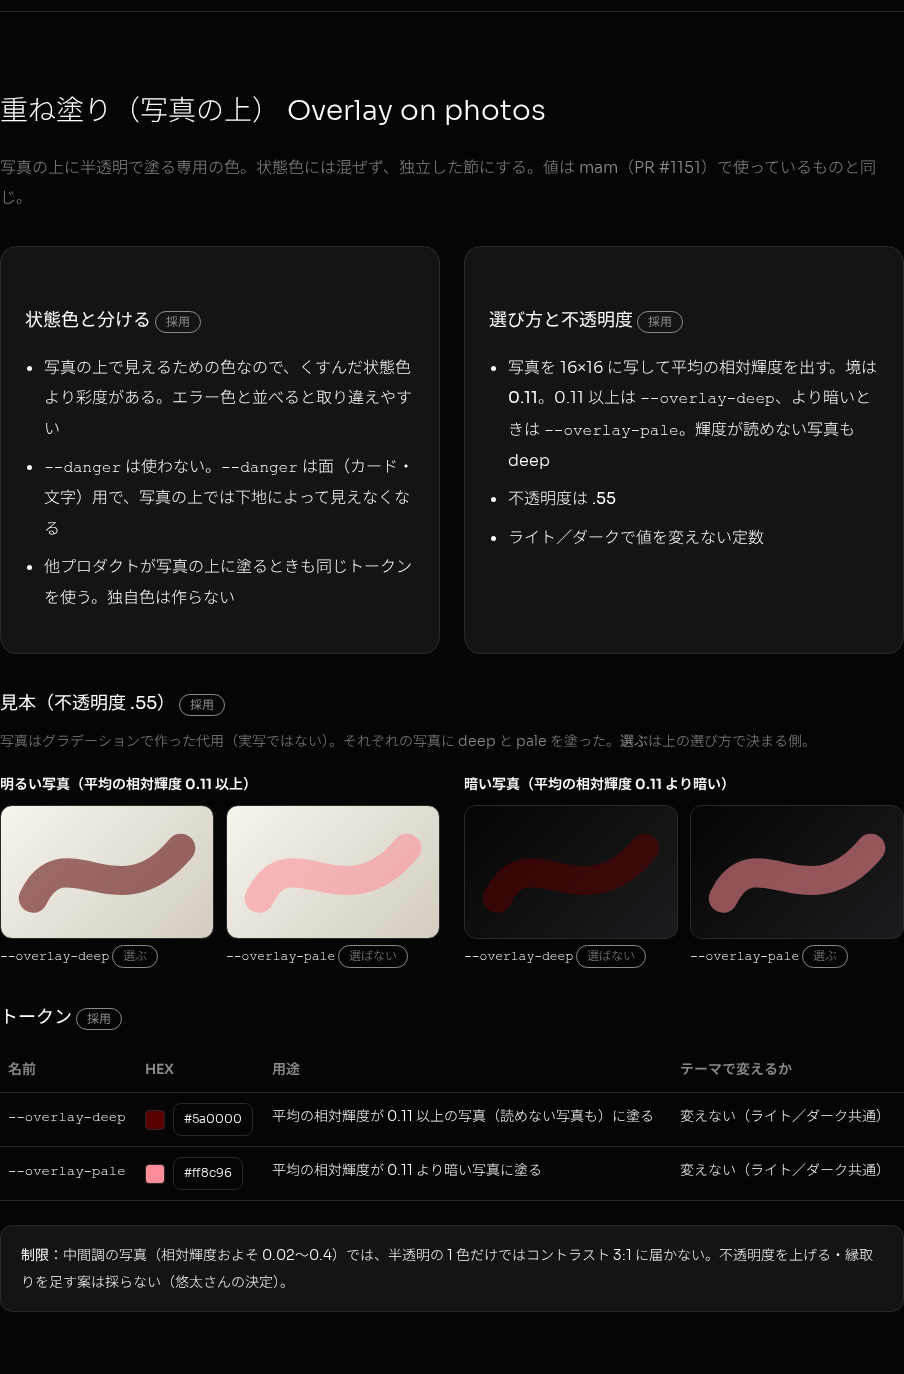
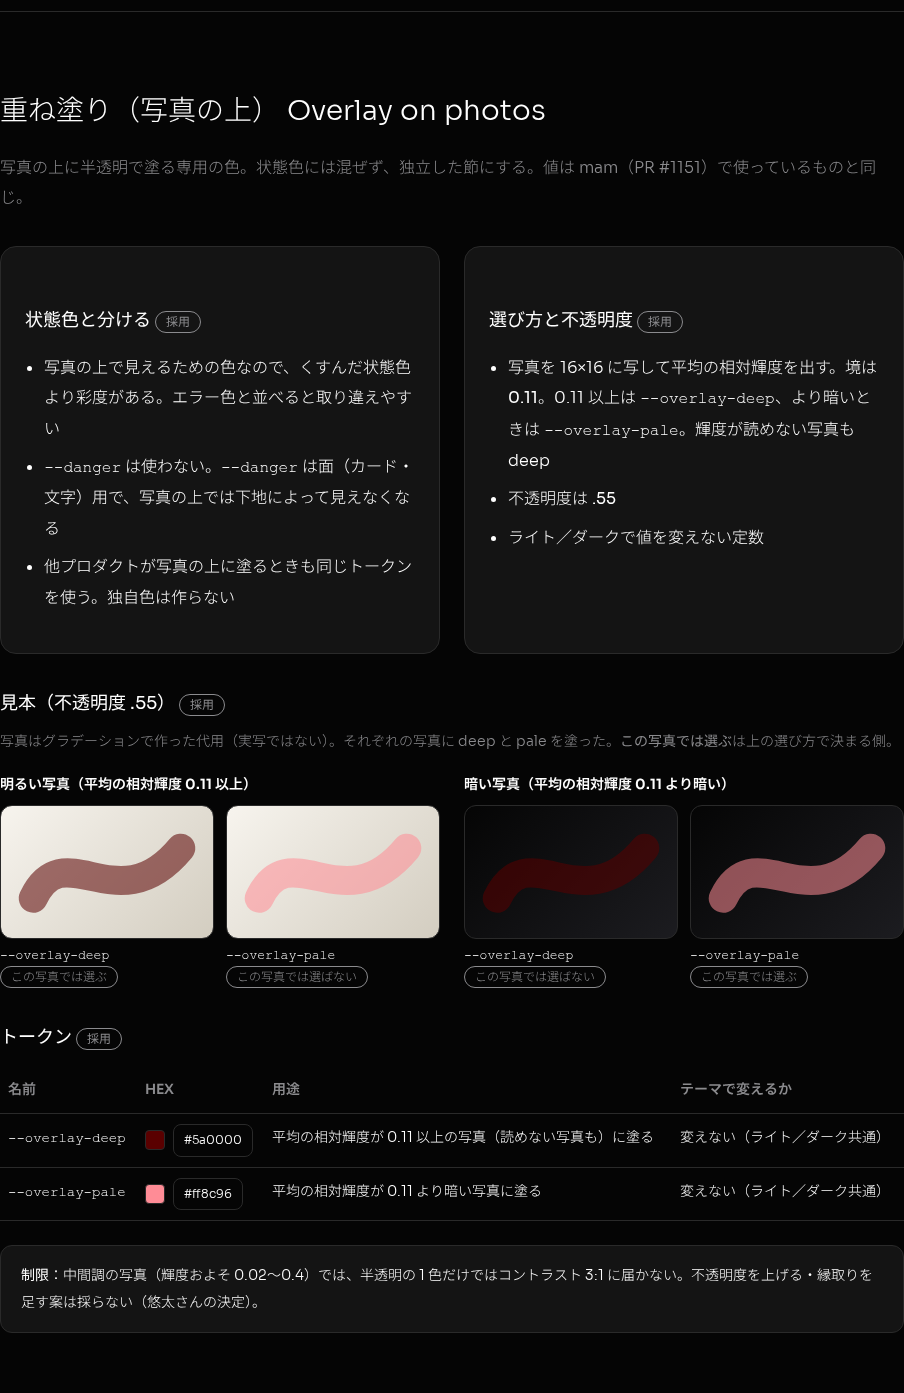
fix: 重ね塗りの見本ラベル・forced-colors・検査を review 指摘で直す（Refs #18）

diff --git a/index.html b/index.html
@@ -56,12 +56,13 @@ pre.code{margin:12px 0 0;padding:16px;background:var(--surface);border:1px solid
 .jump{font-size:14px;color:var(--mute)}.jump a{color:var(--ink);margin-right:12px}
 .h14t{width:100%}.h14t .tag{white-space:nowrap;margin-right:0}.h14t.src td:last-child{color:var(--mute)}@media(max-width:640px){.h14t thead{display:none}.h14t tr{display:block;padding:10px 0;border-bottom:1px solid var(--border)}.h14t td{display:block;padding:0;border:0}.h14t td:first-child{font-weight:600}.h14t.src td:last-child{font-size:12px}}
 /* 重ね塗り（写真の上）の見本（Issue #18）。写真は CSS のグラデーションで代用。塗りは不透明度 .55 */
-.ov-g{display:grid;grid-template-columns:repeat(auto-fit,minmax(280px,1fr));gap:24px;margin-top:16px}.ov-g h4{margin:0 0 8px;font-size:14px;font-weight:600}
+.ov-g{display:grid;grid-template-columns:repeat(auto-fit,minmax(min(280px,100%),1fr));gap:24px;margin-top:16px}.ov-g h4{margin:0 0 8px;font-size:14px;font-weight:600}.ov-note{font-size:14px;margin:0}
 .ov-r{display:grid;grid-template-columns:1fr 1fr;gap:12px}.ov-r figure{margin:0;min-width:0}
 .ov-ph{aspect-ratio:8/5;border:1px solid var(--border);border-radius:12px;overflow:hidden}.ov-bright{background:linear-gradient(135deg,#f7f4ee,#d3cdc0)}.ov-dark{background:linear-gradient(135deg,#050505,#1c1c20)}
 .ov-ph svg{display:block;width:100%;height:100%}.ov-ph path{fill:none;stroke-width:22;stroke-linecap:round;opacity:.55}
 .ov-r figcaption{margin-top:6px;font-size:13px;line-height:1.5}.ov-r .tag{margin-right:0}
 .ov-sw{display:inline-block;width:20px;height:20px;border-radius:4px;border:1px solid var(--border);vertical-align:middle;margin-right:8px}.ov-t .hex{display:inline-flex;margin-top:0;vertical-align:middle}
+@media(forced-colors:active){.ov-ph,.ov-sw{forced-color-adjust:none}}
 </style></head><body><div class="wrap">
 <div class="top"><span class="logo">OUSIASS<span class="badge">色・フォント・サイズ・UI確定</span></span><div class="seg" role="group" aria-label="テーマ" data-theme-control><button type="button" data-set-theme="light" aria-pressed="false"><svg viewBox="0 0 24 24" aria-hidden="true"><path d="M12 18C15.3137 18 18 15.3137 18 12C18 8.68629 15.3137 6 12 6C8.68629 6 6 8.68629 6 12C6 15.3137 8.68629 18 12 18Z"/><path d="M22 12L23 12M12 2V1M12 23V22M20 20L19 19M20 4L19 5M4 20L5 19M4 4L5 5M1 12L2 12"/></svg><span class="lb">ライト</span></button><button type="button" data-set-theme="dark" aria-pressed="false"><svg viewBox="0 0 24 24" aria-hidden="true"><path d="M3 11.5066C3 16.7497 7.25034 21 12.4934 21C16.2209 21 19.4466 18.8518 21 15.7259C12.4934 15.7259 8.27411 11.5066 8.27411 3C5.14821 4.55344 3 7.77915 3 11.5066Z"/></svg><span class="lb">ダーク</span></button><button type="button" data-set-theme="system" aria-pressed="false"><svg viewBox="0 0 24 24" aria-hidden="true"><path d="M2 21L17 21M21 21L22 21"/><path d="M2 16.4V3.6C2 3.26863 2.26863 3 2.6 3H21.4C21.7314 3 22 3.26863 22 3.6V16.4C22 16.7314 21.7314 17 21.4 17H2.6C2.26863 17 2 16.7314 2 16.4Z"/></svg><span class="lb">システム</span></button></div></div>
 <header><h1>UI カラーガイド</h1><p class="lead">Ousiass 全プロダクト共通のカラー・タイポ・サイズ・UI ガイド（確定）。HEX はクリックでコピーできます。</p><p class="lead" style="font-size:14px">スイッチ・ラジオの状態は推奨案（未確定）。ボタンの loading・スピナー・リップルの対象・テーマ切替（3 モード）・フォーカスの実線リング・<code>--z-popup</code> 401・Dark のモーダル影 40%・accent-soft 上の文字（<code>--ink</code> / <code>--mute-on-soft</code>）・ダイアログ本文 base 16・モーダルの閉じ方・ペイン型デスクトップアプリの例外・スイッチのラベル base 16・入力の文字サイズ（base 16 が基本、狭い設定ペインだけ sm 14 可、モバイルは必ず 16）・使えないメニュー項目の opacity <code>.4</code>・全幅バナーの即時の出入りは採用済み。<a href="#dialog">ダイアログ</a> ／ <a href="#pane-app">ペイン型アプリの例外</a> ／ <a href="#proposals">Hitomado 提案の反映（#283〜#287）</a></p></header>
@@ -95,17 +96,17 @@ pre.code{margin:12px 0 0;padding:16px;background:var(--surface);border:1px solid
 <li>他プロダクトが写真の上に塗るときも同じトークンを使う。独自色は作らない</li></ul></div>
 <div><h3>選び方と不透明度 <span class="tag">採用</span></h3><ul class="p"><li>写真を 16×16 に写して平均の相対輝度を出す。境は <strong>0.11</strong>。0.11 以上は <code>--overlay-deep</code>、より暗いときは <code>--overlay-pale</code>。輝度が読めない写真も deep</li>
 <li>不透明度は <strong>.55</strong></li><li>ライト／ダークで値を変えない定数</li></ul></div></div>
-<h3>見本（不透明度 .55） <span class="tag">採用</span></h3><p class="sub" style="font-size:14px;margin:0">写真はグラデーションで作った代用（実写ではない）。それぞれの写真に deep と pale を塗った。<strong>選ぶ</strong>は上の選び方で決まる側。</p>
+<h3>見本（不透明度 .55） <span class="tag">採用</span></h3><p class="sub ov-note">写真はグラデーションで作った代用（実写ではない）。それぞれの写真に deep と pale を塗った。<strong>この写真では選ぶ</strong>は上の選び方で決まる側。</p>
 <div class="ov-g"><div><h4>明るい写真（平均の相対輝度 0.11 以上）</h4><div class="ov-r">
-<figure><div class="ov-ph ov-bright" role="img" aria-label="明るい写真の見本に --overlay-deep を不透明度 .55 で塗ったところ"><svg viewBox="0 0 160 100" aria-hidden="true" focusable="false"><path d="M24 70C48 20 88 90 136 32" style="stroke:var(--overlay-deep)"/></svg></div><figcaption><code>--overlay-deep</code> <span class="tag">選ぶ</span></figcaption></figure>
-<figure><div class="ov-ph ov-bright" role="img" aria-label="明るい写真の見本に --overlay-pale を不透明度 .55 で塗ったところ"><svg viewBox="0 0 160 100" aria-hidden="true" focusable="false"><path d="M24 70C48 20 88 90 136 32" style="stroke:var(--overlay-pale)"/></svg></div><figcaption><code>--overlay-pale</code> <span class="tag">選ばない</span></figcaption></figure></div></div>
+<figure><div class="ov-ph ov-bright" role="img" aria-label="明るい写真の見本に --overlay-deep を不透明度 .55 で塗ったところ"><svg viewBox="0 0 160 100" aria-hidden="true" focusable="false"><path d="M24 70C48 20 88 90 136 32" style="stroke:var(--overlay-deep)"/></svg></div><figcaption><code>--overlay-deep</code> <span class="tag">この写真では選ぶ</span></figcaption></figure>
+<figure><div class="ov-ph ov-bright" role="img" aria-label="明るい写真の見本に --overlay-pale を不透明度 .55 で塗ったところ"><svg viewBox="0 0 160 100" aria-hidden="true" focusable="false"><path d="M24 70C48 20 88 90 136 32" style="stroke:var(--overlay-pale)"/></svg></div><figcaption><code>--overlay-pale</code> <span class="tag">この写真では選ばない</span></figcaption></figure></div></div>
 <div><h4>暗い写真（平均の相対輝度 0.11 より暗い）</h4><div class="ov-r">
-<figure><div class="ov-ph ov-dark" role="img" aria-label="暗い写真の見本に --overlay-deep を不透明度 .55 で塗ったところ"><svg viewBox="0 0 160 100" aria-hidden="true" focusable="false"><path d="M24 70C48 20 88 90 136 32" style="stroke:var(--overlay-deep)"/></svg></div><figcaption><code>--overlay-deep</code> <span class="tag">選ばない</span></figcaption></figure>
-<figure><div class="ov-ph ov-dark" role="img" aria-label="暗い写真の見本に --overlay-pale を不透明度 .55 で塗ったところ"><svg viewBox="0 0 160 100" aria-hidden="true" focusable="false"><path d="M24 70C48 20 88 90 136 32" style="stroke:var(--overlay-pale)"/></svg></div><figcaption><code>--overlay-pale</code> <span class="tag">選ぶ</span></figcaption></figure></div></div></div>
+<figure><div class="ov-ph ov-dark" role="img" aria-label="暗い写真の見本に --overlay-deep を不透明度 .55 で塗ったところ"><svg viewBox="0 0 160 100" aria-hidden="true" focusable="false"><path d="M24 70C48 20 88 90 136 32" style="stroke:var(--overlay-deep)"/></svg></div><figcaption><code>--overlay-deep</code> <span class="tag">この写真では選ばない</span></figcaption></figure>
+<figure><div class="ov-ph ov-dark" role="img" aria-label="暗い写真の見本に --overlay-pale を不透明度 .55 で塗ったところ"><svg viewBox="0 0 160 100" aria-hidden="true" focusable="false"><path d="M24 70C48 20 88 90 136 32" style="stroke:var(--overlay-pale)"/></svg></div><figcaption><code>--overlay-pale</code> <span class="tag">この写真では選ぶ</span></figcaption></figure></div></div></div>
 <h3>トークン <span class="tag">採用</span></h3><table class="ut h14t ov-t"><thead><tr><th>名前</th><th>HEX</th><th>用途</th><th>テーマで変えるか</th></tr></thead><tbody>
 <tr><td><code>--overlay-deep</code></td><td><span class="ov-sw" style="background:#5a0000"></span><span class="hex"><button data-hex="#5a0000">#5a0000</button></span></td><td>平均の相対輝度が 0.11 以上の写真（読めない写真も）に塗る</td><td>変えない（ライト／ダーク共通）</td></tr>
 <tr><td><code>--overlay-pale</code></td><td><span class="ov-sw" style="background:#ff8c96"></span><span class="hex"><button data-hex="#ff8c96">#ff8c96</button></span></td><td>平均の相対輝度が 0.11 より暗い写真に塗る</td><td>変えない（ライト／ダーク共通）</td></tr></tbody></table>
-<div class="warn" id="overlay-limit"><strong>制限</strong>：中間調の写真（相対輝度およそ 0.02〜0.4）では、半透明の 1 色だけではコントラスト 3:1 に届かない。不透明度を上げる・縁取りを足す案は採らない（悠太さんの決定）。</div></section>
+<div class="warn" id="overlay-limit"><strong>制限</strong>：中間調の写真（輝度およそ 0.02〜0.4）では、半透明の 1 色だけではコントラスト 3:1 に届かない。不透明度を上げる・縁取りを足す案は採らない（悠太さんの決定）。</div></section>
 <section><h2>Do / Don't</h2><div class="dd"><div><h3>Do</h3><ul class="p"><li>背景は bone（ダークはほぼ黒 #050505）、カード／ペインは surface（#141414）、区切りは border。真っ黒 #000 は使わない</li><li>主操作は accent（インク色）で示す</li><li>プリズムはロゴとキービジュアルだけに</li><li>状態はアイコン＋文言＋くすんだ状態色で伝える</li><li>ライト / ダーク両方で確認する</li></ul></div><div><h3>Don't</h3><ul class="p"><li>ボタン・リンク・フォームにプリズムを使う</li><li>鮮やかな赤・緑などの原色を状態色に使う</li><li>プロダクトごとに独自パレットを作る</li><li>ページ背景に真っ黒 #000 / #000000 を直置きする（ダークは --bone = #050505）</li><li>OS／ブラウザ標準のままのスイッチ・スライダーを出す（ガイドの見た目に合わせる）</li><li>mute を本文の長文に使う（コントラスト不足）</li><li>色だけで意味を伝える</li></ul></div></div></section>
 <section id="typography" class="ty"><h2>文字 Typography</h2><p class="sub">本文 16px 基準。フォントはすべて SIL OFL。<strong>フォント: 確定（A = Sora＋Noto Sans JP / JetBrains Mono）</strong>。サイズスケール: 確定（xs 12 / sm 14 / base 16 / lg 18 / xl 24 / 2xl 32 / 3xl 40）。<a href="tokens-preview.html">ライト／ダークで実フォント表示を見る →</a></p>
 <h3 class="h">フォントスタック</h3><table><tr><th>用途</th><th>フォント</th><th>CSS</th></tr>

diff --git a/docs/pr-evidence/18/results.md b/docs/pr-evidence/18/results.md
@@ -2,14 +2,15 @@
 
 | 項目 | PASS | FAIL |
 |---|---|---|
-| scripts/check-overlay.sh（新規。head） | 31 | 0 |
-| scripts/check-overlay.sh を origin/main（a66e851）のツリーに当てる | 6 | 25（想定どおり FAIL。#18 の項目） |
+| scripts/check-overlay.sh（新規。head） | 37 | 0 |
+| scripts/check-overlay.sh を origin/main（a66e851）のツリーに当てる | 6 | 31（想定どおり FAIL。#18 の項目） |
 | scripts/check-states.sh | 全 PASS | 0 |
 | scripts/check-typography.sh | 全 PASS | 0 |
 | scripts/check-scrollbar.sh | 全 PASS | 0 |
-| Playwright（Chromium。`verify18.cjs`。Light/Dark × 1280 / 390） | 28 | 0 |
+| Playwright（Chromium。`verify18.cjs`。Light/Dark × 1280 / 390） | 31 | 0 |
 
 - Playwright の内容: トークン値がテーマを切り替えても `#5a0000` / `#ff8c96` のまま・節の位置（状態色の次、Do / Don't の前）・見本 4 つが不透明度 .55 で deep=`rgb(90,0,0)` ×2・pale=`rgb(255,140,150)` ×2・見本のグラデーション両端で「選ぶ」側は 3:1 以上（明るい×deep 3.87 / 3.43、暗い×pale 3.31 / 3.21）、「選ばない」側は 3:1 未満・`#overlay` 内にはみ出す要素なし
+- 見本のグラデーションの平均の相対輝度を判定に入れた（明るい 0.760 ≥ 0.11、暗い 0.007 < 0.11）
 - 実行: `npm i playwright` した場所で `node docs/pr-evidence/18/verify18.cjs`
 - Firefox / Safari（WebKit）は未検証
 - 写真は CSS のグラデーションによる代用（実写ではない）。実写の中間調で 3:1 に届かないのは、Issue のとおり制限として節に書いてある
@@ -20,3 +21,10 @@
 - `bg18-chromium-desktop-dark-overlay.png`（幅 1280・Dark）
 - `bg18-chromium-mobile390-light-overlay.png`（幅 390・Light）
 - `bg18-chromium-mobile390-dark-overlay.png`（幅 390・Dark）
+
+## レビュー反映（review エージェントの指摘）
+- 見本ラベルを「この写真では選ぶ／選ばない」にし、組み合わせを check-overlay.sh で固定
+- forced-colors で見本・スウォッチの色を保つ（`forced-color-adjust:none`）。実機（Windows ハイコントラスト）は未確認
+- `.ov-g` を `minmax(min(280px,100%),1fr)` に、インライン style をクラス `.ov-note` に
+- 制限文から「相対」を外し Issue の文面（輝度およそ 0.02〜0.4）に合わせた
+- verify18.cjs: 固定待ちをやめ、見本の輝度を判定に追加
